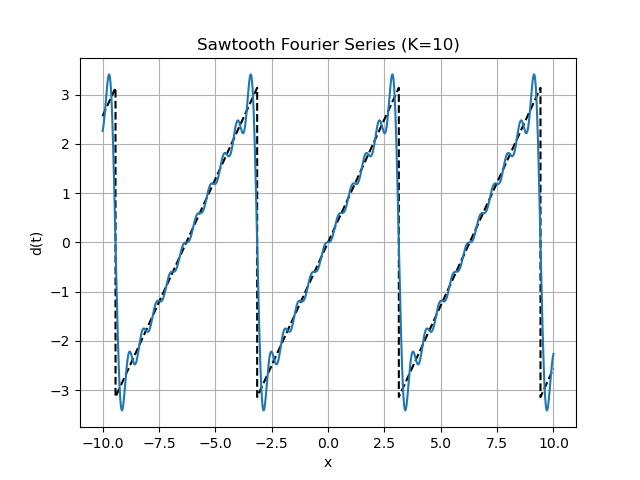
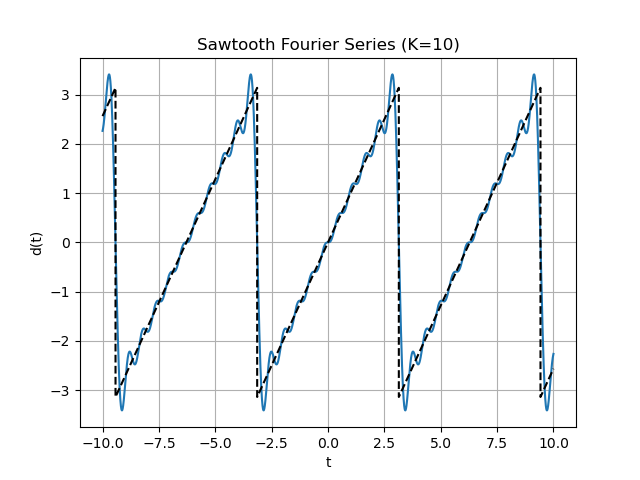
Updates

Changed region(s): [[0.1562, 0.4688, 0.1875, 0.5]]

diff --git a/code_examples/sawtooth_fourier.py b/code_examples/sawtooth_fourier.py
@@ -3,9 +3,6 @@ import math
 from scipy import signal
 import numpy as np
 
-# x values
-x = np.linspace(-10, 10, 100000, endpoint=True)
-
 def generate(x, k):
     # y values initialization
     y = [0] * len(x)
@@ -19,29 +16,34 @@ def generate(x, k):
 
     return y, y_values
 
+def plot_common(title, filename, **kwargs):
+    plt.plot(x, np.pi * signal.sawtooth([i + np.pi for i in x]), color='black', linestyle='--')
+    plt.title(title)
+    plt.xlabel("t")
+    plt.ylabel("d(t)")
+    plt.grid()
+    plt.savefig(filename)
+    plt.close()
+
+# x values
+x = np.linspace(-10, 10, 100000, endpoint=True)
+
+###################################################################################
+##############################   PLOTS   ##########################################
+###################################################################################
+
 # Plot 1 (last value of K)
 K = 10
 y, _ = generate(x, K)
 
-plt.plot(x, np.pi * signal.sawtooth([i + np.pi for i in x]), color='black', linestyle='--')
+
 plt.plot(x, y)
-plt.title(f"Sawtooth Fourier Series (K={K})")
-plt.xlabel("x")
-plt.ylabel("d(t)")
-plt.grid()
-plt.savefig('sawtooth_fourier_last_k.png')
-plt.close()
+plot_common(f"Sawtooth Fourier Series (K={K})", 'img/sawtooth_fourier_last_k.png')
 
 # Plot 2 (all values of K)
 K = 4
 _, y_values = generate(x, K)
 
-plt.plot(x, np.pi * signal.sawtooth([i + np.pi for i in x]), color='black', linestyle='--')
 for k in y_values:
     plt.plot(x, y_values[k])
-plt.title(f"Sawtooth Fourier Series (K in {{{', '.join([str(k) for k in range(1, K + 1)])}}})")
-plt.xlabel("x")
-plt.ylabel("d(t)")
-plt.grid()
-plt.savefig('sawtooth_fourier_all_k.png')
-plt.close()
+plot_common(f"Sawtooth Fourier Series (K in {{{', '.join([str(k) for k in range(1, K + 1)])}}})", 'img/sawtooth_fourier_all_k.png')